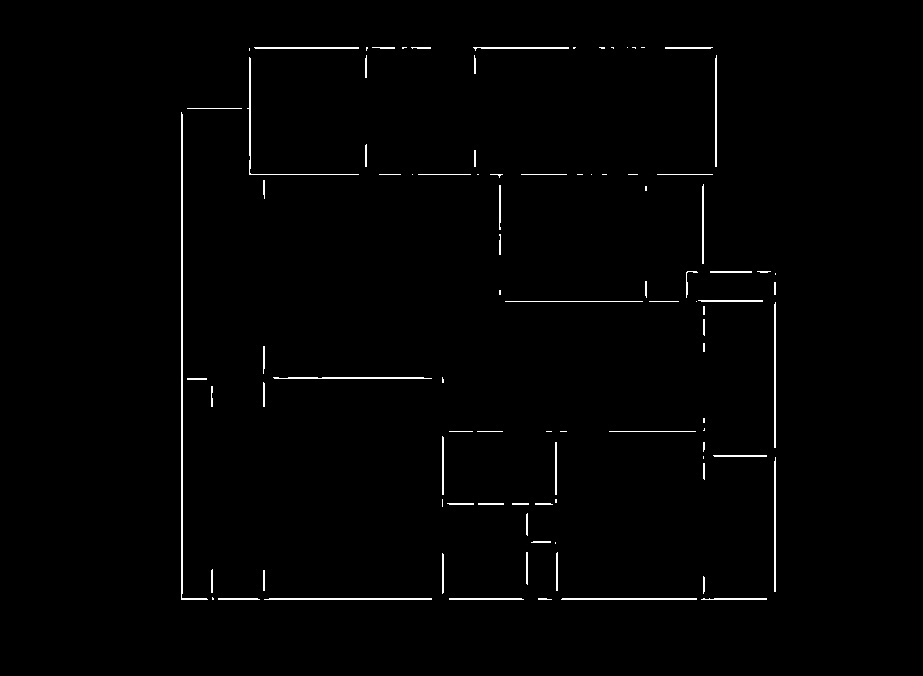
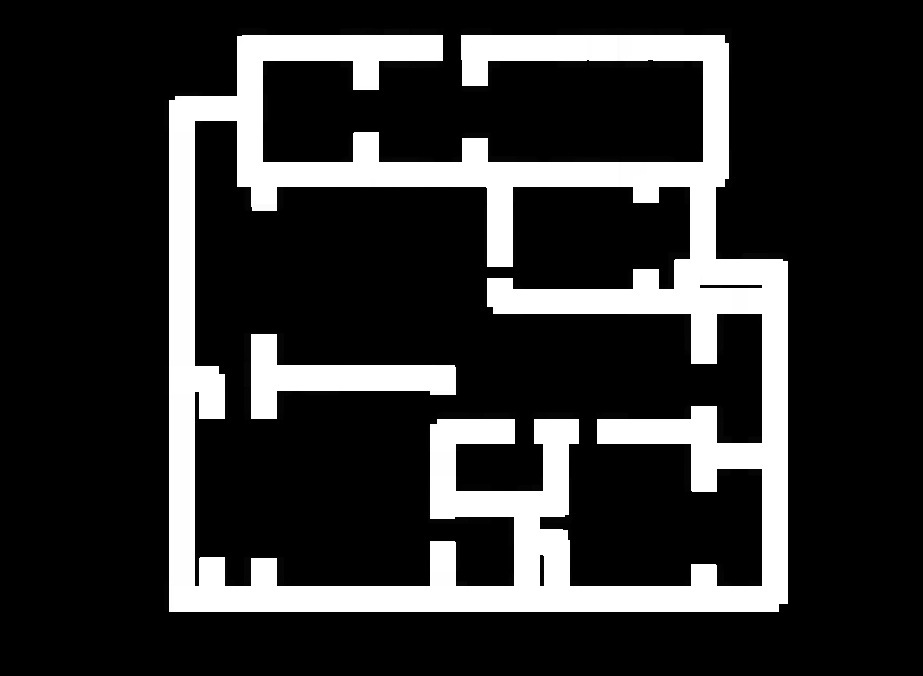
results

Changed region(s): [[0.182, 0.0311, 0.8797, 0.932], [0.273, 0.497, 0.5157, 0.6213]]

diff --git a/FINAL_ALL.py b/FINAL_ALL.py
@@ -2,45 +2,15 @@
 import sys
 import getopt
 
-
-def help():
-    print
-    "print help usage"
-    return
-
-def main():
-    try:
-        opts, args = getopt.getopt(sys.argv[1:], "abchi:o:", ["input=", "output=", "help"])
-    except getopt.GetoptError as err:
-        print
-        str(err)
-        help()
-        sys.exit(1)
-
-    for opt, arg in opts:
-        if (opt == "-a"):
-            print
-            "a option enabled"
-        elif (opt == "-b"):
-            print
-            "b option enabled"
-        elif (opt == "-c"):
-            print
-            "c option enabled"
-        elif (opt == "-i") or (opt == "--input"):
-            print
-            "input file = " + arg
-        elif (opt == "-o") or (opt == "--output"):
-            print
-            "ouput file = " + arg
-        elif (opt == "-h") or (opt == "--help"):
-            help()
-
-    return
+args = sys.argv[1:]
+opts, args = getopt.getopt(args, 'r:g:b:p:o:h')
 
 
-if __name__ == '__main__':
-    main()
+
+path = "./images/sample1.jpg"
+output = './output.gif'
+
+
 
 
 #0 =======================================================================================================
@@ -49,83 +19,71 @@ import cv2
 import numpy as np
 
 
-#1 =======================================================================================================
 
-img_color = cv2.imread('plan.jpg', cv2.IMREAD_COLOR)
+
+#1 black & white==========================================================================================
+
+
+img_color = cv2.imread('results/plan.jpg', cv2.IMREAD_COLOR)
 
 img_gray = cv2.cvtColor(img_color, cv2.COLOR_BGR2GRAY)
 
-cv2.imwrite('savedimage.jpg', img_gray)
-
+cv2.imwrite('results/savedimage.jpg', img_gray)
 
 
 
 #2 =======================================================================================================
 
-img_color = cv2.imread('savedimage.jpg', cv2.IMREAD_COLOR)
+img_color = cv2.imread('results/savedimage.jpg', cv2.IMREAD_COLOR)
 
 img_gray = cv2.cvtColor(img_color, cv2.COLOR_BGR2GRAY)
 
 ret,img_binary = cv2.threshold(img_gray, 10, 255, cv2.THRESH_BINARY_INV)
 
-cv2.imwrite('gray10.jpg', img_binary)
+cv2.imwrite('results/gray10.jpg', img_binary)
 
 
 
 
 #3 =======================================================================================================
 
-img_color = cv2.imread('gray10.jpg')
-img_gray = cv2.cvtColor(img_color, cv2.COLOR_BGR2GRAY)
-ret, img_binary = cv2.threshold(img_gray, 127, 255, 0)
-contours, hierarchy = cv2.findContours(img_binary, cv2.RETR_LIST, cv2.CHAIN_APPROX_NONE)\
+img = cv2.imread('results/gray10.jpg',0)
 
-for cnt in contours:
-    for p in cnt:
-        cv2.circle(img_color, (p[0][0], p[0][1]), 2, (255,0,0), -1)
+kernel = np.ones((4,4), np.uint8)
+result = cv2.erode(img, kernel, iterations = 1)
+
+cv2.imwrite('results/gray20.jpg', result)
 
 
 
 
 #4 =======================================================================================================
 
-img = cv2.imread('gray10.jpg',0)
+img = cv2.imread('results/gray20.jpg',0)
 
-kernel = np.ones((4,4), np.uint8)
-result = cv2.erode(img, kernel, iterations = 1)
+kernel = np.ones((25, 25), np.uint8)
+result = cv2.dilate(img, kernel, iterations = 1)
 
-cv2.imwrite('gray30.jpg', result)
+cv2.imwrite('results/gray30.jpg', result)
 
 
 
 
 #5 =======================================================================================================
 
-img = cv2.imread('gray30.jpg',0)
+img = cv2.imread('results/gray30.jpg',0)
 
-kernel = np.ones((25, 25), np.uint8)
-result = cv2.dilate(img, kernel, iterations = 1)
+kernel = np.ones((20,20), np.uint8)
+result = cv2.erode(img, kernel, iterations = 1)
 
-cv2.imwrite('gray40.jpg', result)
+cv2.imwrite('results/gray40.jpg', result)
 
 
 
 
 #6 =======================================================================================================
 
-img = cv2.imread('gray40.jpg',0)
-
-kernel = np.ones((20,20), np.uint8)
-result = cv2.erode(img, kernel, iterations = 1)
-
-cv2.imwrite('gray50.jpg', result)
-
-
-
-
-#7 =======================================================================================================
-
-img_color = cv2.imread('gray50.jpg', cv2.IMREAD_COLOR)
+img_color = cv2.imread('results/gray40.jpg', cv2.IMREAD_COLOR)
 img_gray = cv2.cvtColor(img_color, cv2.COLOR_BGR2GRAY)
 
 ret,img_binary = cv2.threshold(img_gray, 10, 255, cv2.THRESH_BINARY_INV)
@@ -133,7 +91,7 @@ ret,img_binary = cv2.threshold(img_gray, 10, 255, cv2.THRESH_BINARY_INV)
 cv2.imshow('Binary', img_binary)
 cv2.waitKey(0)
 
-cv2.imwrite('FINAL.jpg', img_binary)
+cv2.imwrite('results/FINAL.jpg', img_binary)
 
 cv2.destroyAllWindows()
 
